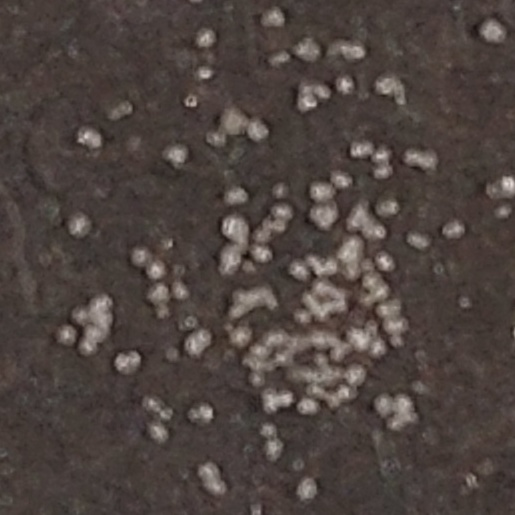
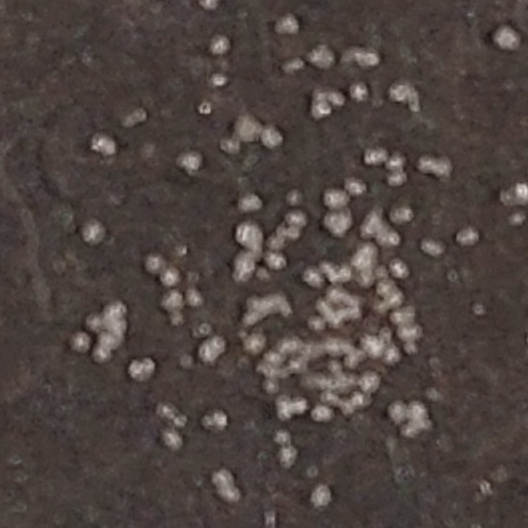
od czata uproszczone test 3. słaba poprawa

diff --git a/finddisc.py b/finddisc.py
@@ -34,20 +34,27 @@ def crop_disk_from_image(img_path):
     if not contours:
         return None  # lub rzucamy wyjątek / zwracamy cały obraz
 
-    # 6. Wybór największego konturu
+        # 6. Wybór największego konturu
     largest = max(contours, key=cv2.contourArea)
-    x, y, cw, ch = cv2.boundingRect(largest)
+    (cx, cy), radius = cv2.minEnclosingCircle(largest)
+    cx, cy, radius = int(cx), int(cy), int(np.ceil(radius))
 
-    # 7. Rozmiar kwadratu (największy z boków)
-    side = max(cw, ch)
-    # wyśrodkowanie
-    cx, cy = x + cw//2, y + ch//2
-    x0 = max(0, cx - side//2)
-    y0 = max(0, cy - side//2)
+    # 7. Rozmiar kwadratu (musi w pełni zawierać okrąg)
+    side = 2 * radius  # średnica okręgu
+    x0 = max(0, cx - radius)
+    y0 = max(0, cy - radius)
     x1 = min(w, x0 + side)
     y1 = min(h, y0 + side)
 
-    # 8. Przycięcie i zwrot
+    # 8. Korekcja do kwadratu na brzegach obrazu
+    if x1 - x0 != y1 - y0:  # Jeśli bounding box nie jest kwadratem, poprawiamy
+        side = max(x1 - x0, y1 - y0)
+        x0 = max(0, cx - side // 2)
+        y0 = max(0, cy - side // 2)
+        x1 = min(w, x0 + side)
+        y1 = min(h, y0 + side)
+
+    # 9. Przycięcie i zwrot
     crop = img[y0:y1, x0:x1]
     return crop
 
